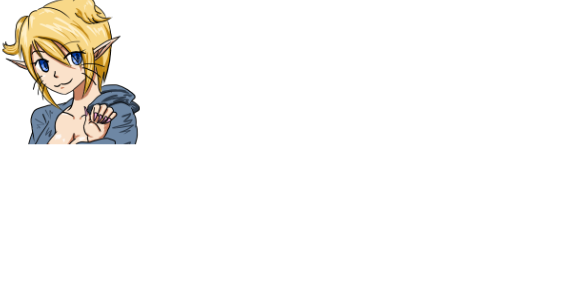
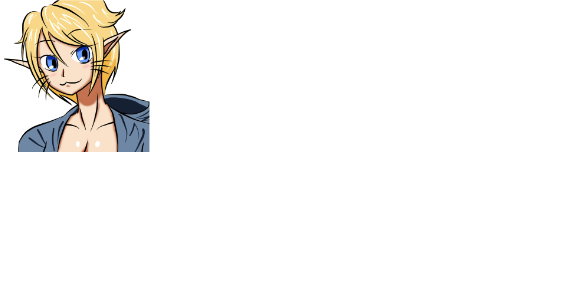
顔グラ変更

Changed region(s): [[0.0, 0.0, 0.2812, 0.5312]]

diff --git a/js/plugins.js b/js/plugins.js
@@ -21,7 +21,7 @@ var $plugins =
 {"name":"EscapeLostGold","status":true,"description":"逃走すると所持金を落とすプラグイン","parameters":{"lostRate":"0.5","lostMessage":"を落とした！","lostMaxGold":"100000"}},
 {"name":"DP_FixEscapeRatio","status":true,"description":"逃走の成功確率を設定できます。v1.00","parameters":{"Use Param":"false","Ratio":"75"}},
 {"name":"EscapeFadeOut","status":true,"description":"サイドビューで逃走時の前向き退却のモーションをフェードアウトに変更します","parameters":{"EffectDuration":"12"}},
-{"name":"TMMapHpGauge","status":true,"description":"マップシーンに顔グラフィックとＨＰゲージを表示します。\n必要に応じてＭＰや変数などをゲージで表示することもできます。","parameters":{"gaugeWindowX":"560","gaugeWindowY":"5","gaugeWindowWidth":"288","gaugeWindowHeight":"64","gaugeAType":"VN","gaugeAX":"12","gaugeAY":"12","gaugeAWidth":"144","gaugeAHeight":"36","gaugeAFontSize":"28","gaugeAParam":"6","gaugeAMax":"0","gaugeAName":"空腹度","gaugeAColor":"#ff60c0 #ffa0e0","gaugeBType":"","gaugeBX":"12","gaugeBY":"12","gaugeBWidth":"144","gaugeBHeight":"36","gaugeBFontSize":"28","gaugeBParam":"0","gaugeBMax":"0","gaugeBName":"BP","gaugeBColor":"#ff60c0 #ffa0e0","gaugeCType":"","gaugeCX":"12","gaugeCY":"12","gaugeCWidth":"144","gaugeCHeight":"36","gaugeCFontSize":"28","gaugeCParam":"0","gaugeCMax":"0","gaugeCName":"CP","gaugeCColor":"#ff60c0 #ffa0e0","faceOffsetX":"-4","faceOffsetY":"-4","stateIconMax":"4","stateIconX":"156","stateIconY":"24","shakeTime":"20","startVisible":"1","collideOpacity":"128","messageBusyHide":"1","eventBusyHide":"1"}},
+{"name":"TMMapHpGauge","status":true,"description":"マップシーンに顔グラフィックとＨＰゲージを表示します。\n必要に応じてＭＰや変数などをゲージで表示することもできます。","parameters":{"gaugeWindowX":"560","gaugeWindowY":"5","gaugeWindowWidth":"288","gaugeWindowHeight":"64","gaugeAType":"VN","gaugeAX":"12","gaugeAY":"12","gaugeAWidth":"144","gaugeAHeight":"36","gaugeAFontSize":"28","gaugeAParam":"6","gaugeAMax":"0","gaugeAName":"空腹度","gaugeAColor":"#ff60c0 #ffa0e0","gaugeBType":"","gaugeBX":"12","gaugeBY":"12","gaugeBWidth":"144","gaugeBHeight":"36","gaugeBFontSize":"28","gaugeBParam":"0","gaugeBMax":"0","gaugeBName":"BP","gaugeBColor":"#ff60c0 #ffa0e0","gaugeCType":"","gaugeCX":"12","gaugeCY":"12","gaugeCWidth":"144","gaugeCHeight":"36","gaugeCFontSize":"28","gaugeCParam":"0","gaugeCMax":"0","gaugeCName":"CP","gaugeCColor":"#ff60c0 #ffa0e0","faceOffsetX":"-4","faceOffsetY":"8","stateIconMax":"4","stateIconX":"156","stateIconY":"24","shakeTime":"20","startVisible":"1","collideOpacity":"128","messageBusyHide":"1","eventBusyHide":"1"}},
 {"name":"MOT_LifeParameters","status":true,"description":"空腹、水分、疲労、睡眠、体調パラメータを追加します","parameters":{"===各パラメータの初期現在値===":"","空腹度の現在値":"0","水分量の現在値":"0","疲労度の現在値":"0","眠気の現在値":"0","体調の現在値":"100","===各パラメータの初期最大値===":"","空腹度の最大値":"100","水分量の最大値":"100","疲労度の最大値":"100","眠気の最大値":"100","体調の最大値":"100","===各パラメータの上限値===":"","空腹度の上限値":"999","水分量の上限値":"999","疲労度の上限値":"999","眠気の上限値":"999","体調の上限値":"999","===1歩毎の増減量===":"","空腹度の増減量:歩行":"0","水分量の増減量:歩行":"0","疲労度の増減量:歩行":"0.03","眠気の増減量:歩行":"0","体調の増減量:歩行":"0","===ダッシュ時の1歩毎の増加量===":"","空腹度の増減量:ダッシュ":"0","水分量の増減量:ダッシュ":"0","疲労度の増減量:ダッシュ":"0.06","眠気の増減量:ダッシュ":"0","体調の増減量:ダッシュ":"0","===時間経過による増減量===":"","空腹度の更新フレーム数":"0","水分量の更新フレーム数":"0","疲労度の更新フレーム数":"360","眠気の更新フレーム数":"0","体調の更新フレーム数":"0","空腹度の増減量:時間":"0","水分量の増減量:時間":"0","疲労度の増減量:時間":"0.05","眠気の増減量:時間":"0","体調の増減量:時間":"0","===描画設定設定===":"","===満腹度===":"","満腹度:項目名":"満腹度","満腹度:項目名のフォントサイズ":"22","満腹度:フォントカラー":"#FFD700","満腹度:値の表示形式":"1","満腹度:値のフォントサイズ":"18","満腹度:現在値の通常フォントカラー":"#FFFFFF","満腹度:現在値の危険フォントカラー":"#E3FC45","満腹度:現在値の重度フォントカラー":"#FF326F","満腹度:ゲージカラー1":"#FF9533","満腹度:ゲージカラー2":"#FFD600","===水分量===":"","水分量:項目名":"水分量","水分量:項目名のフォントサイズ":"22","水分量:フォントカラー":"#00BAFF","水分量:値の表示形式":"1","水分量:値のフォントサイズ":"18","水分量:現在値の通常フォントカラー":"#FFFFFF","水分量:現在値の危険フォントカラー":"#E3FC45","水分量:現在値の重度フォントカラー":"#FF326F","水分量:ゲージカラー1":"#338BFF","水分量:ゲージカラー2":"#00ABFF","===疲労度===":"","疲労度:項目名":"疲労度","疲労度:項目名のフォントサイズ":"22","疲労度:フォントカラー":"#8FFF00","疲労度:値の表示形式":"1","疲労度:値のフォントサイズ":"18","疲労度:現在値の通常フォントカラー":"#FFFFFF","疲労度:現在値の危険フォントカラー":"#E3FC45","疲労度:現在値の重度フォントカラー":"#FF326F","疲労度:ゲージカラー1":"#33FF6C","疲労度:ゲージカラー2":"#00FF94","===眠気===":"","眠気:項目名":"眠気","眠気:項目名のフォントサイズ":"22","眠気:フォントカラー":"#C400FF","眠気:値の表示形式":"1","眠気:値のフォントサイズ":"18","眠気:現在値の通常フォントカラー":"#FFFFFF","眠気:現在値の危険フォントカラー":"#E3FC45","眠気:現在値の重度フォントカラー":"#FF326F","眠気:ゲージカラー1":"#E054DF","眠気:ゲージカラー2":"#DB00FF","===体調===":"","体調:項目名":"体調","体調:項目名のフォントサイズ":"22","体調:フォントカラー":"#FF00F5","体調:値の表示形式":"1","体調:値のフォントサイズ":"18","体調:現在値の通常フォントカラー":"#FFFFFF","体調:現在値の危険フォントカラー":"#E3FC45","体調:現在値の重度フォントカラー":"#FF326F","体調:ゲージカラー1":"#FF33CC","体調:ゲージカラー2":"#FF00B0"}},
 {"name":"Yami_8DIR","status":true,"description":"","parameters":{}},
 {"name":"Torigoya_SaveCommand","status":true,"description":"プラグインコマンドからセーブを実行できるようにします。","parameters":{}},
